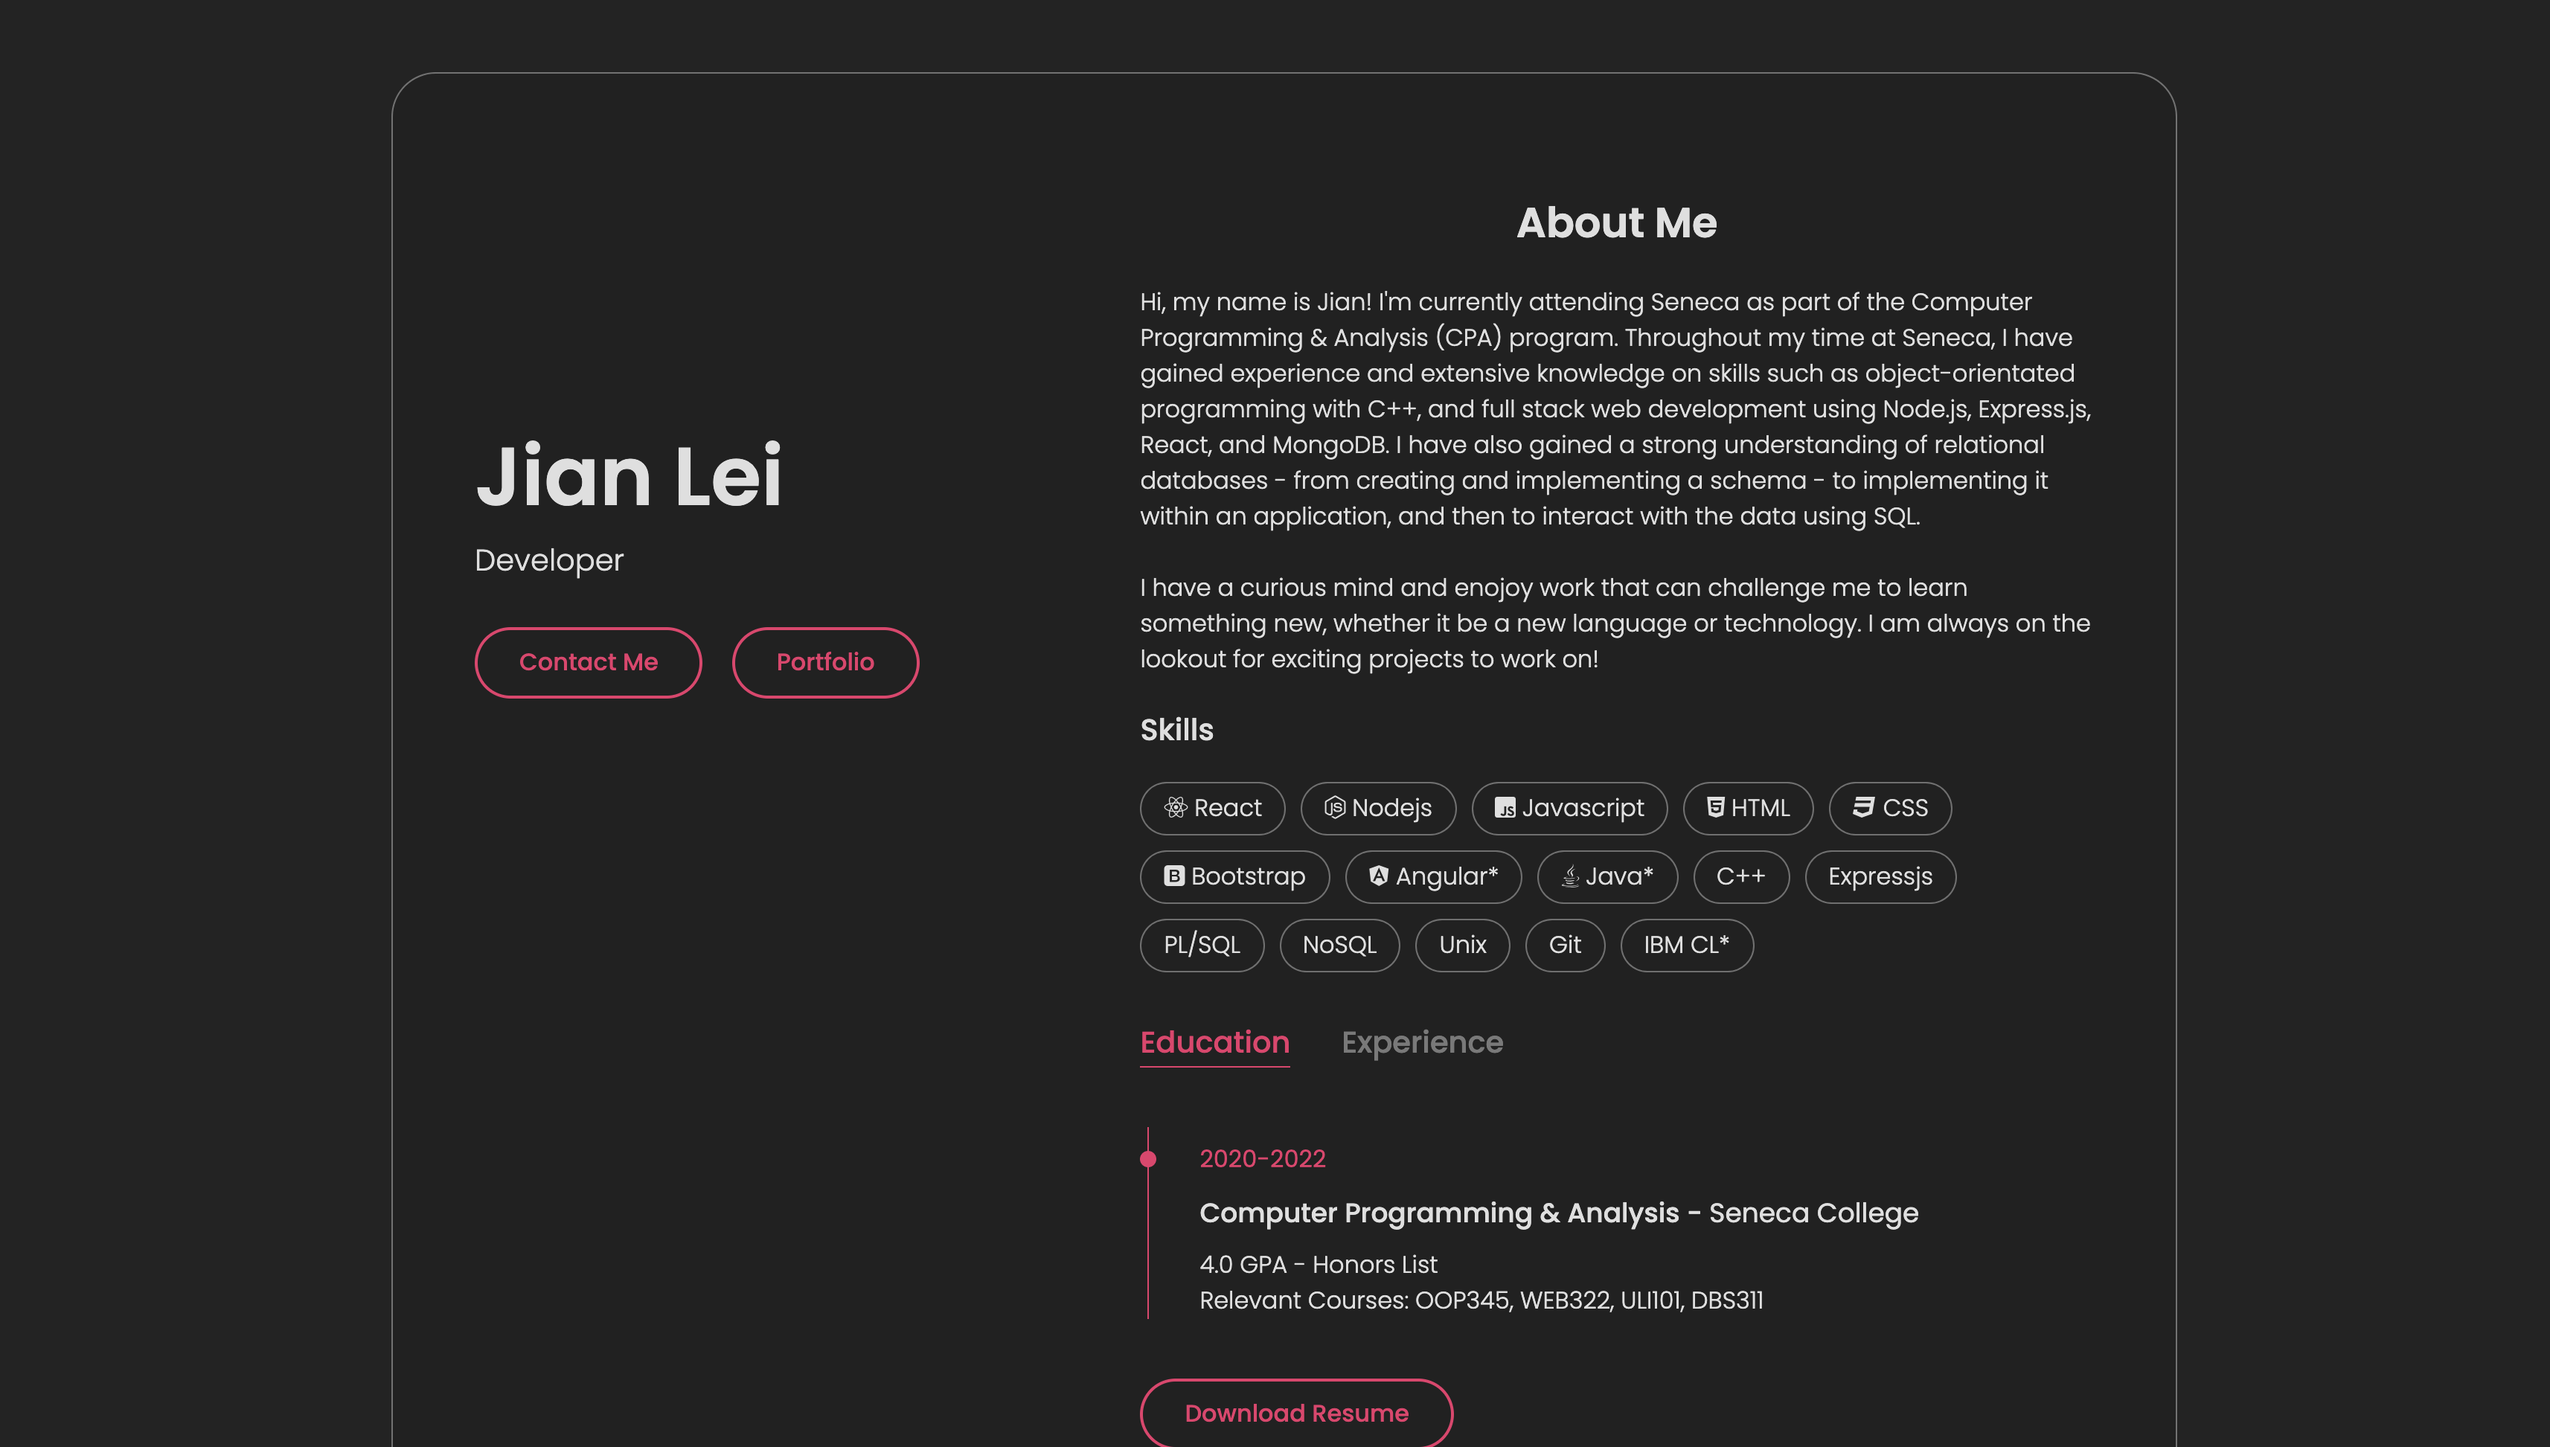
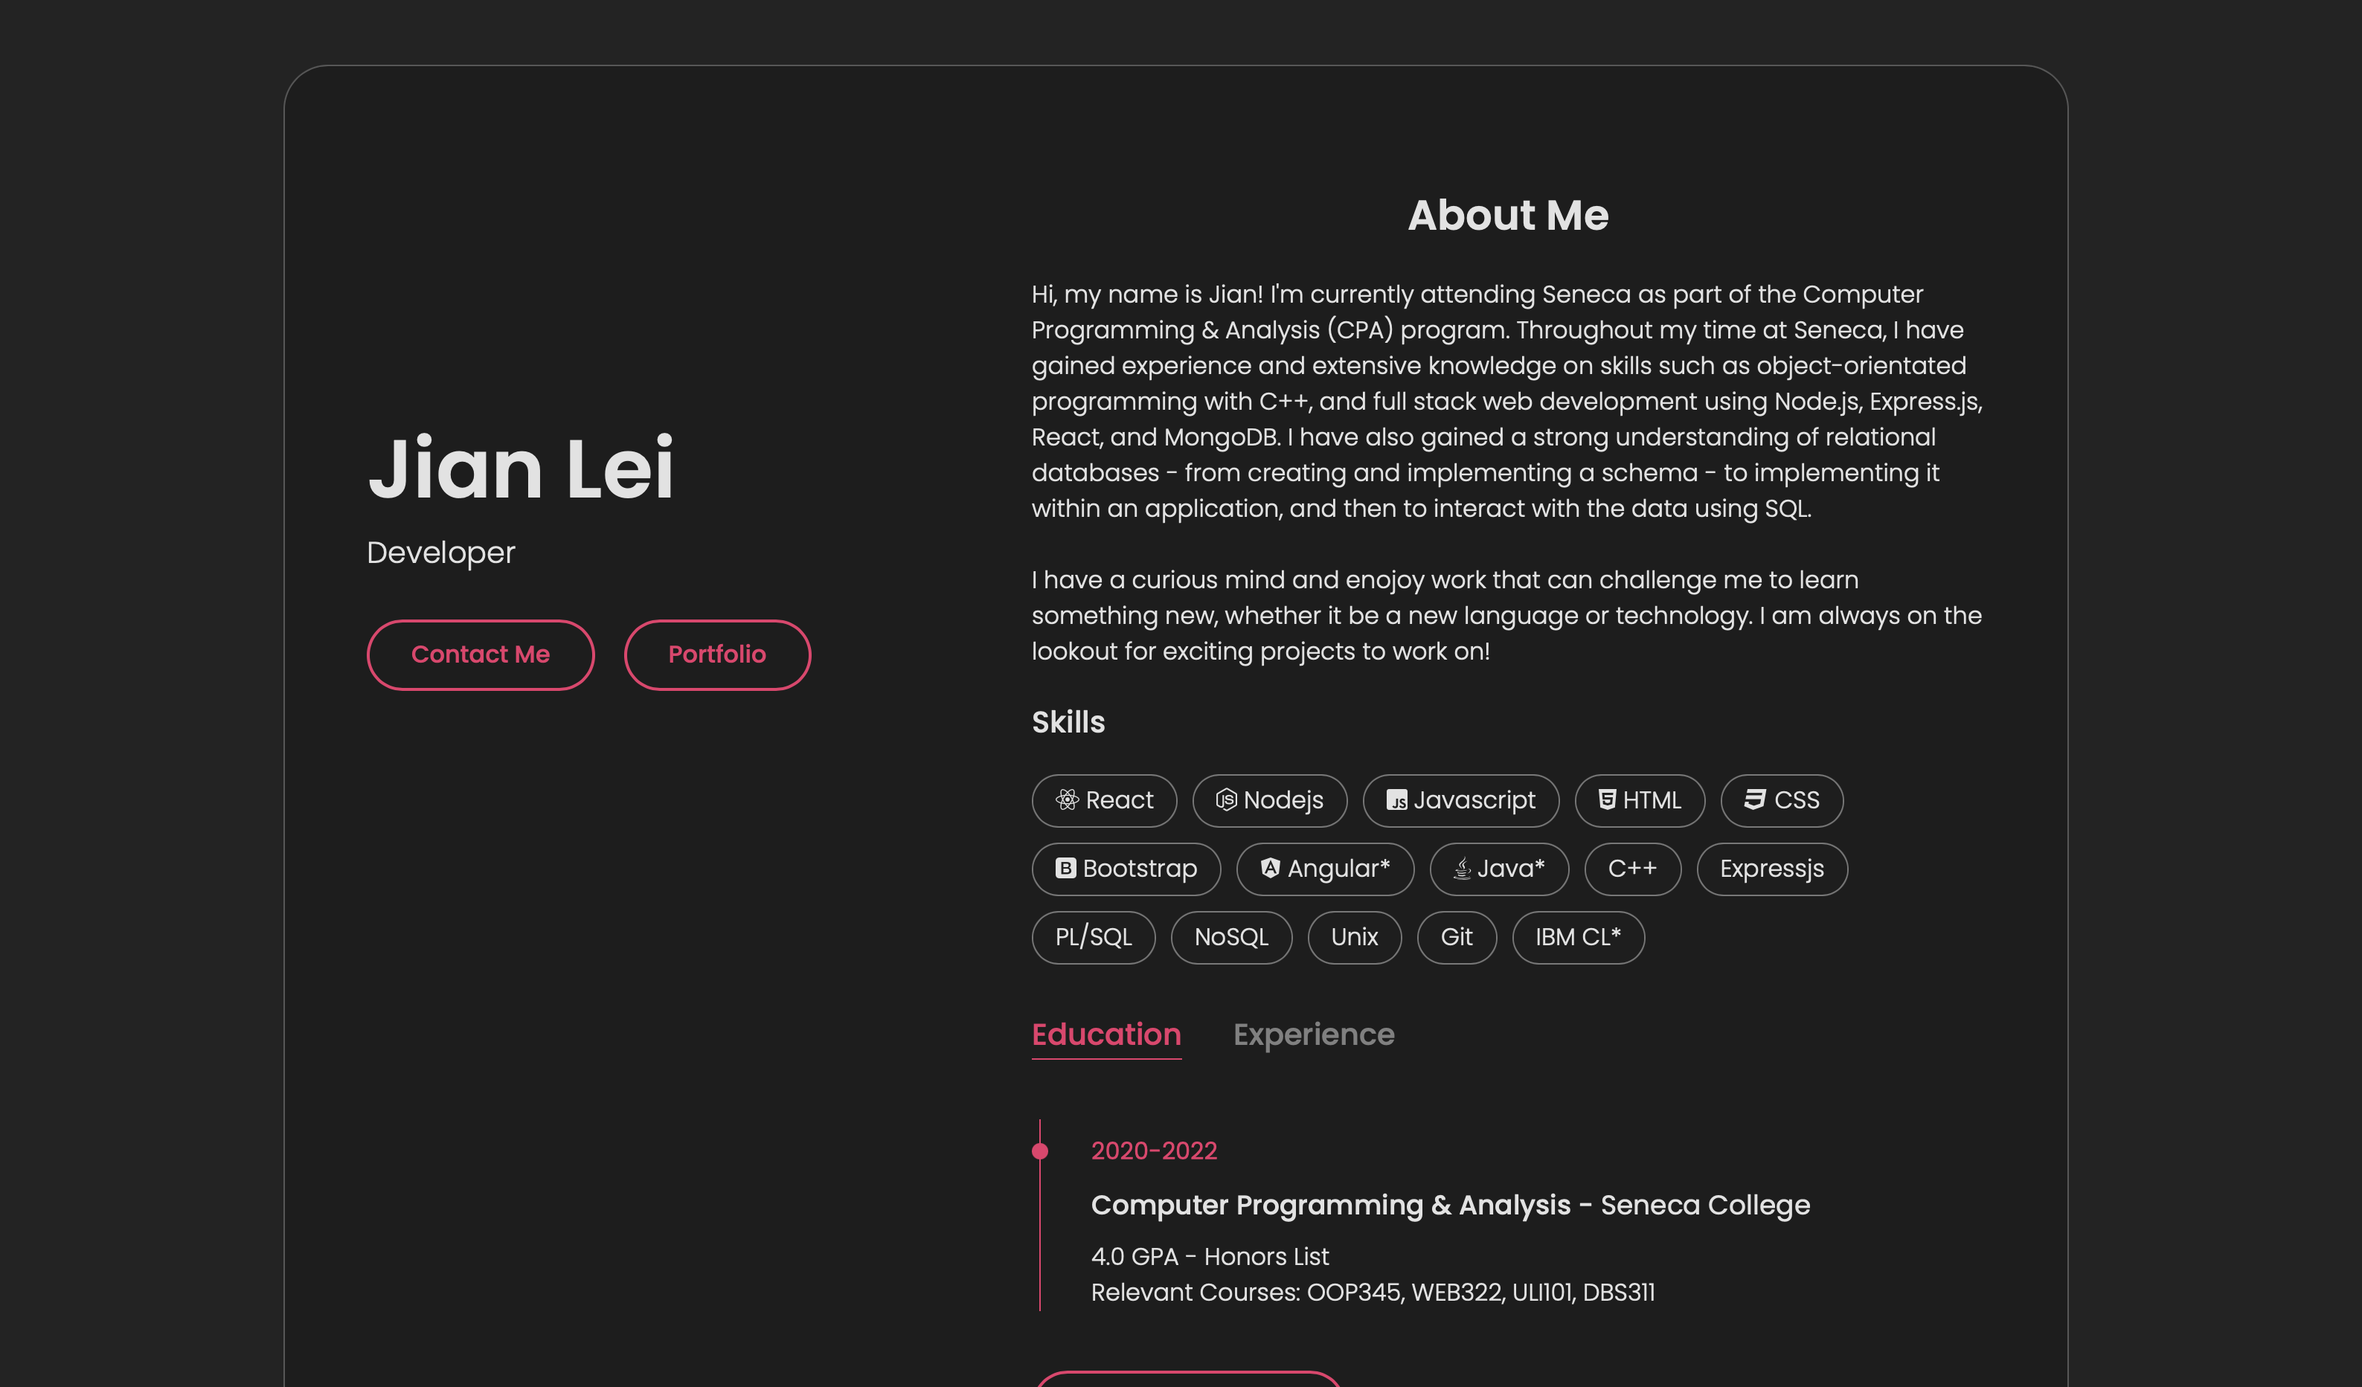
updated card body bg-color

diff --git a/css/style.css b/css/style.css
@@ -38,16 +38,6 @@ body{
     -webkit-tap-highlight-color: transparent;
     padding: 0 15px;
 }
-body::before{
-    content: "";
-    position: fixed;
-    left: 0;
-    top: 0;
-    height: 100%;
-    width: 100%;
-    z-index: -1;
-    opacity: 0.12;
-}
 body.hide-scroll{
     overflow-y: hidden;
 }
@@ -68,8 +58,8 @@ ul{
     list-style: none;
 }
 section{
-    background-color: var(--black-alpha-85);
-    border: 1px solid var(--white-alpha-40);
+    background-color: rgba(24, 24, 24, 0.55);
+    border: 1px solid var(--gray-alpha-40);
     min-height: 90vh;
     border-radius: 30px;
     backdrop-filter: var(--backdrop-filter-blur);
@@ -313,7 +303,7 @@ button{
 .portfolio-item-thumbnail{
     padding: 10px;
     background-color: var(--white-alpha-25);
-    border: 1px solid var(--white-alpha-40);
+    border: 1px solid var(--gray-alpha-40);
     border-radius: 10px;
 }
 .portfolio-item-thumbnail img{
@@ -383,8 +373,7 @@ button{
     transition: border-color 0.3s ease;
 }
 .contact-form .input-control::placeholder{
-    color: var(--white);
-    opacity: 0.5;
+    color: var(--gray-alpha-40);
     font-weight: 300;
 }
 .contact-form textarea.input-control{
@@ -437,7 +426,7 @@ button{
     right: -15px;
     top: -15px;
     background-color: var(--black-alpha-85);
-    border: 1px solid var(--white-alpha-40);
+    border: 1px solid var(--gray-alpha-40);
 }
 .pp-item-section .back{
     left: -15px;
@@ -448,8 +437,7 @@ button{
     background: transparent;
     position: relative;
     padding-bottom: 60px;
-
-    border: 1px solid var(--white-alpha-40);
+    border: 1px solid var(--gray-alpha-40);
     border-radius: 30px;
 }
 
